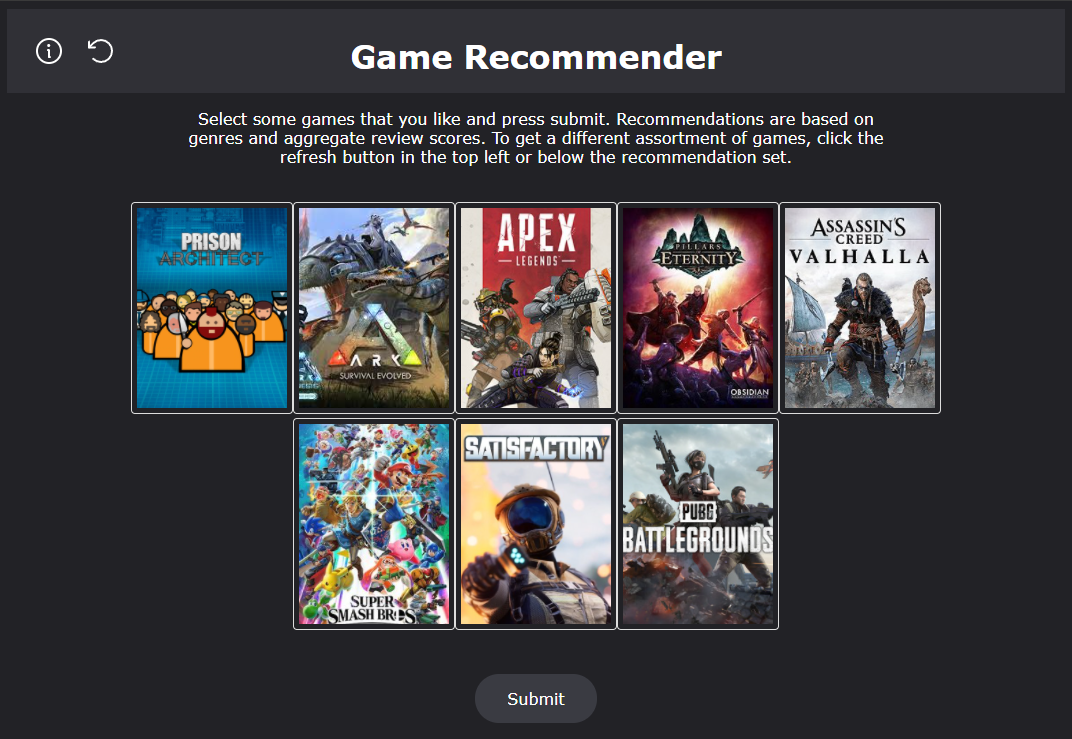
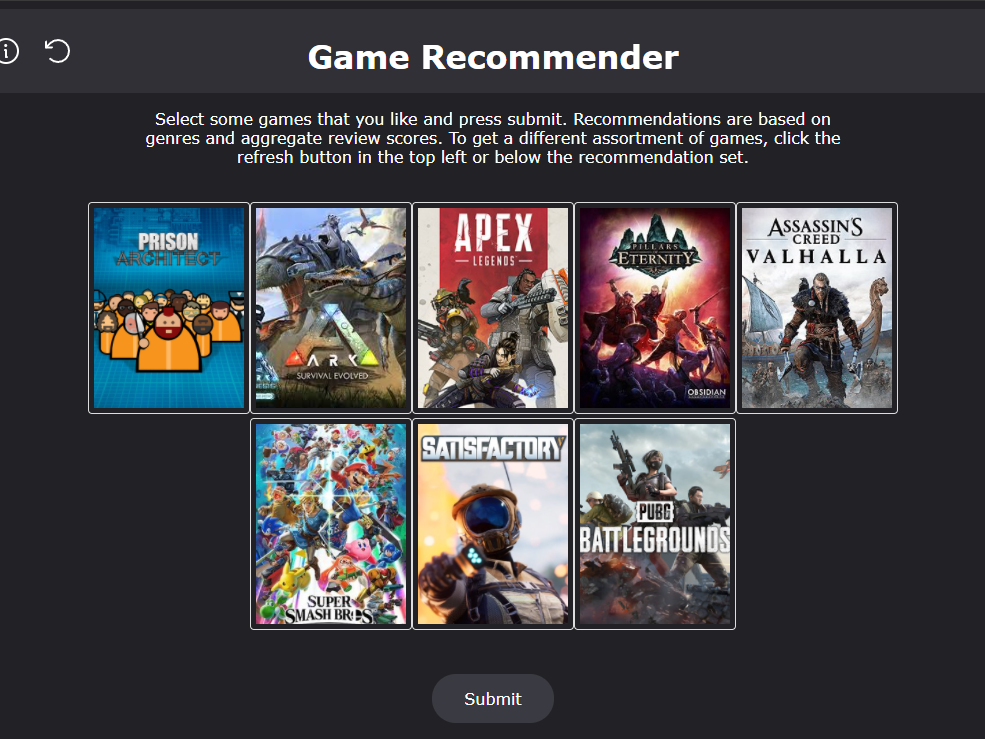
update portfolio css & adding game theory project

diff --git a/src/App.css b/src/App.css
@@ -2,23 +2,13 @@
   text-align: center;
 }
 
-.App-logo {
-  height: 40vmin;
-  pointer-events: none;
-}
 
-@media (prefers-reduced-motion: no-preference) {
-  .App-logo {
-    animation: App-logo-spin infinite 20s linear;
-  }
-}
 
 .App-header {
   background-color: #282E35;
+  box-sizing: border-box;
   padding: 6px;
-  position: relative;
   text-align: center;
-  overflow: hidden;
   font-size: calc(10px + 1vmin);
   color: white;
 }
@@ -45,6 +35,11 @@ li:last-child {
   padding: 8px;
 }
 
+.tile:hover {
+  color: #1E4573;
+
+}
+
 
 body{
   background-color: #21272D;
@@ -64,9 +59,10 @@ body{
 }
 
 img {
-  width: 100%;
+  max-height: 380px;
   max-width: 600px;
-  vertical-align: bottom;
+  height: auto;
+  width: 50vw;
 }
 
 a {
@@ -77,11 +73,22 @@ p {
   color: white;
 }
 
-.displaybox {
-  margin-top: 20px;
-  margin-left: 20%;
-  position: absolute;
-  left: auto;
+.displayBoxContainer {
+  display: flex;
+  justify-content: center;
+  object-fit: contain;
+  padding: 50px;
+  height: auto;
+  width: auto;
+}
+
+.displayBox {
+  max-height: 380px;
+  max-width: 600px;
+  height: auto;
+  width: auto;
+  vertical-align: bottom;
+  margin: 0%;
   box-shadow:
   2.8px 2.8px 2.2px rgba(0, 0, 0, 0.02),
   6.7px 6.7px 5.3px rgba(0, 0, 0, 0.028),
@@ -91,15 +98,24 @@ p {
   100px 100px 80px rgba(0, 0, 0, 0.07);
 }
 
-.displaybox .infotext {
+
+.displayBox .infotext {
   position: absolute;
   opacity: 0;
   visibility: hidden;
+  justify-content: center;
+  max-width: 600px;
+  color: white;
+
+  max-width: 600px;
+  height: auto;
+  width: auto;
+
   -webkit-transition: opacity 600ms, visibility 600ms;
   transition: opacity 600ms, visibility 600ms;
 }
 
-.displaybox:hover .infotext {
+.displayBox:hover .infotext {
   visibility: visible;
   opacity: 1;
 }

diff --git a/src/components/ProjectsContainer.js b/src/components/ProjectsContainer.js
@@ -1,12 +1,28 @@
 import React from 'react'
 import grv2 from '../images/gamerecommenderv2.PNG'
+import gametheory from '../images/gametheory.png'
 
 const ProjectsContainer = (props) => {
 
     return (
-        <div className="displaybox">
-            <a href="https://stevenr74.github.io"><img src={grv2} alt="Game Recommender v2"/></a>
-            <p className="infotext">Recommends games. Built using React for the frontend, Python for the database, and bundled with webpack.</p>
+        <div className="displayBoxContainer">
+            <figure className="displayBox">
+                <a href="https://stevenr74.github.io">
+                    <img src={grv2} alt="Game Recommender v2"/>
+                </a>
+                <figcaption className="infotext">
+                    Recommends games. Built using React for the frontend, Python for the database,
+                    and bundled with webpack.
+                </figcaption>
+            </figure>
+            <figure className="displayBox">
+                <a href="https://stevenr74.github.io/game-theory">
+                    <img src={gametheory} alt="Game Theory"/>
+                </a>
+                <figcaption className="infotext">
+                    Uses examples to explain game theory and strategic thinking.
+                </figcaption>
+            </figure>
         </div>
     )
 }

diff --git a/src/App.js b/src/App.js
@@ -14,9 +14,7 @@ function App() {
         <TopNav />
         <LinkBar></LinkBar>
       </header>
-      <body>
         <ProjectsContainer />
-      </body>
     </div>
   );
 }
